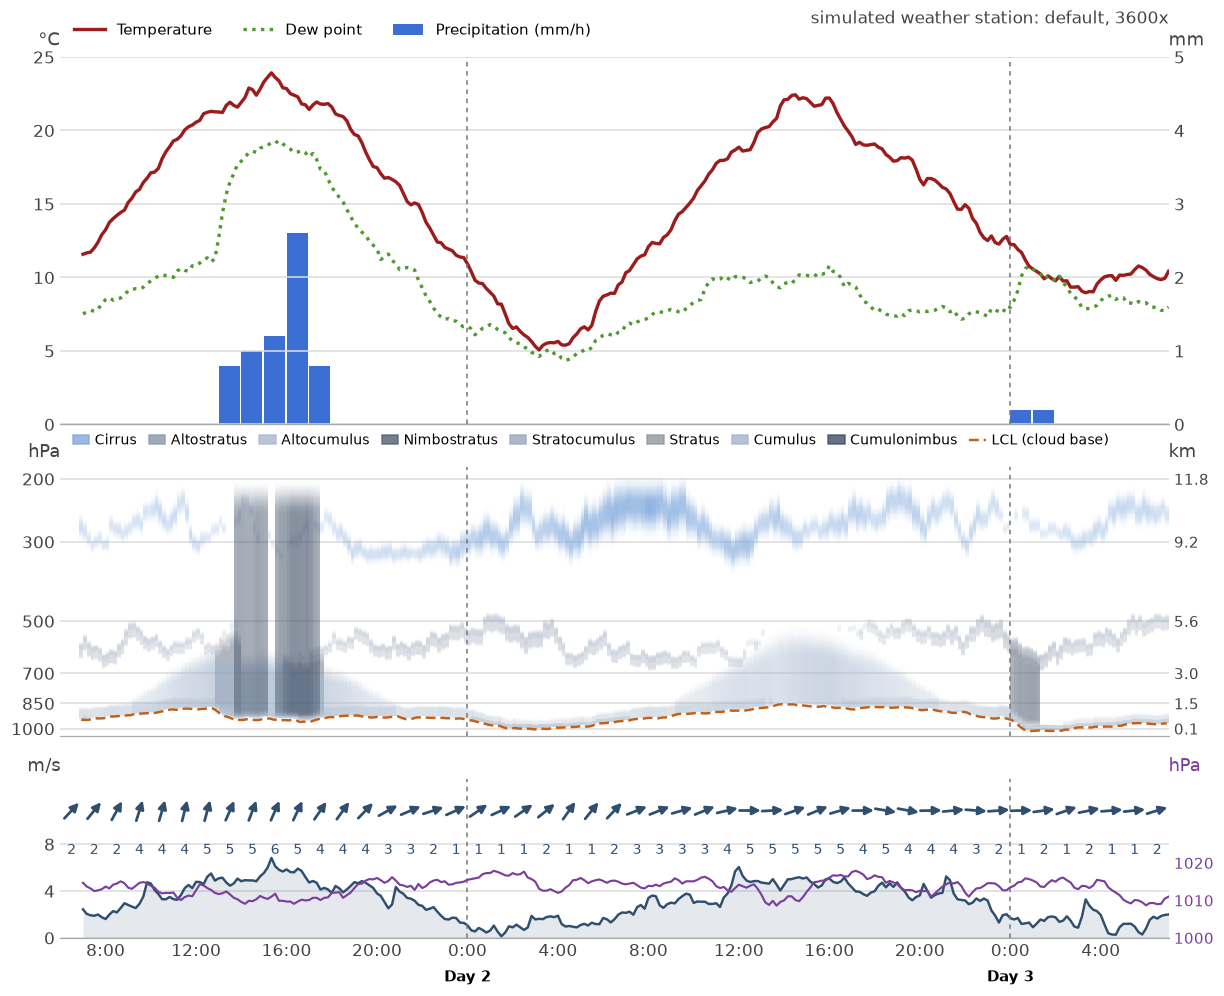
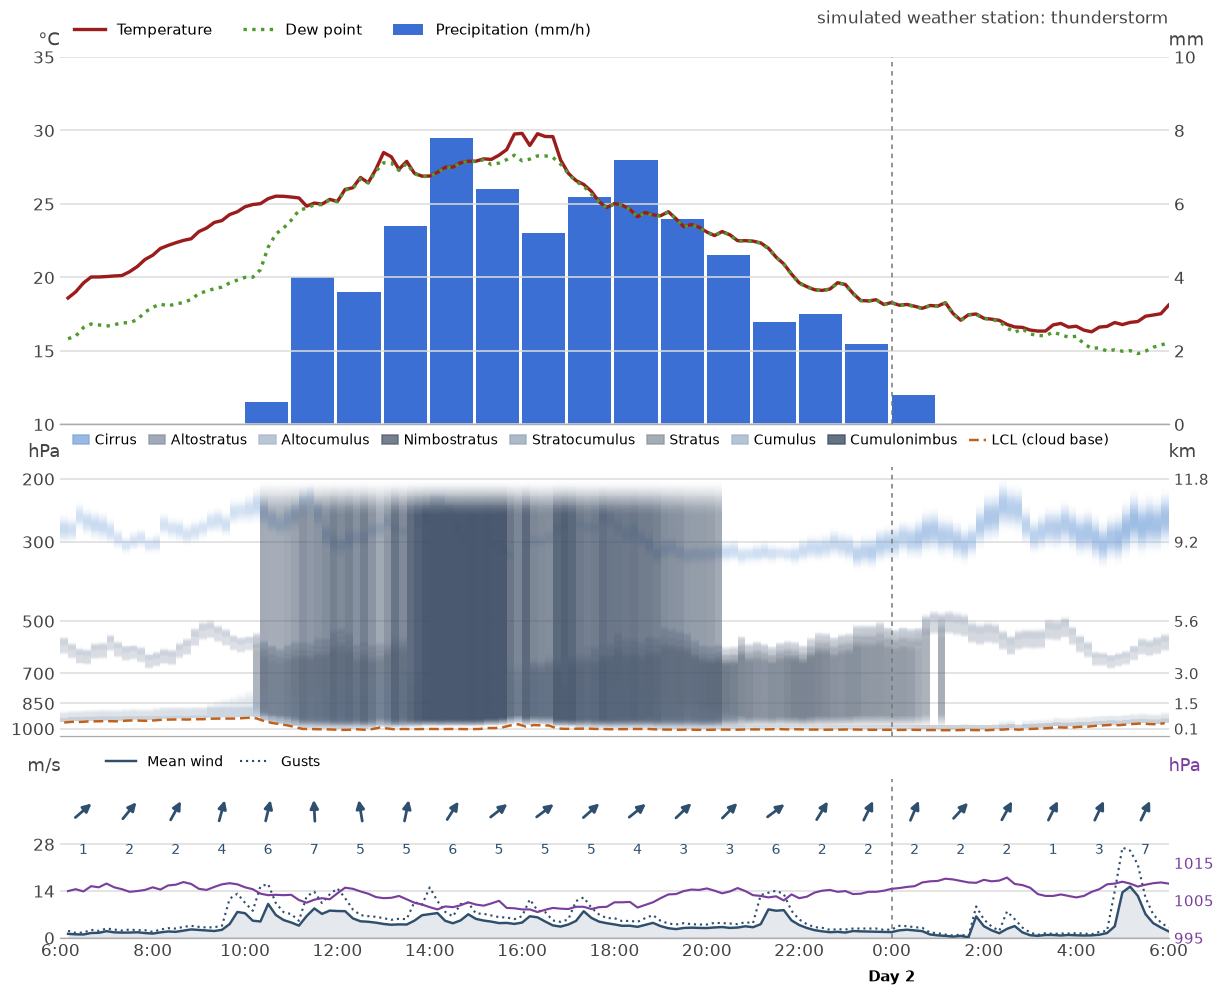
Record wind gusts and plot them as a dotted line
Firmware:
- The model produces a peak (3-second) wind: the wind of the moment
  times a per-minute gust factor of 1.10..1.40 (own RNG, so the rest of
  the weather is unchanged)
- Each 10-minute record keeps the highest peak the anemometer saw;
  records average ~1.45x their mean wind (typical over land), storms
  gust to ~40 m/s
- Gust in samples, records, the JSON ("wind_gust"), the console 'w'
  report and a new CSV column (appended); it fits the packed log
  entry's former padding, so entries stay 44 bytes

Plotting tool:
- Wind panel: the mean wind stays a solid line with its fill, the gusts
  are a dotted line in the same colour, with a small legend; the axis
  scales to the gusts

Tests and docs:
- weather.robot: every gust at or above its mean wind, with a realistic
  mean gust factor
- scenarios.robot: storm gusts of at least 30 m/s
- console.robot: the gusts text in the weather report
- README picture replaced with the thunderstorm-day chart; wind panel,
  gust row, CSV columns and JSON in README and CLAUDE.md updated

diff --git a/tools/weather_tool.py b/tools/weather_tool.py
@@ -47,7 +47,7 @@ COLUMNS = ["seq", "day", "time", "temperature", "humidity", "wind_speed", "wind_
            "lcl", "cirrus", "altostratus", "cumulus", "cumulus_top", "cumulonimbus",
            "cirrus_base", "cirrus_top", "altostratus_base", "altostratus_top",
            "stratus", "stratocumulus", "nimbostratus", "altocumulus", "stratus_top", "stratocumulus_top",
-           "nimbostratus_top", "altocumulus_base", "altocumulus_top", "pressure"]
+           "nimbostratus_top", "altocumulus_base", "altocumulus_top", "pressure", "wind_gust"]
 CLOUD_LAYER_COLUMNS = COLUMNS[COLUMNS.index("lcl"):COLUMNS.index("pressure")]
 SCENARIOS = ["default", "summer_heat", "winter_high", "storm", "thunderstorm"]
 SERVICE_PORT = 5000
@@ -160,6 +160,7 @@ def load(path):
                     "cloud_cover": float(row["cloud_cover"]) if row.get("cloud_cover") else None,
                     **{key: float(row[key]) if row.get(key) else None for key in CLOUD_LAYER_COLUMNS},
                     "pressure": float(row["pressure"]) if row.get("pressure") else None,
+                    "wind_gust": float(row["wind_gust"]) if row.get("wind_gust") else None,
                 }
             )
     readings.sort(key=lambda r: r["when"])
@@ -425,13 +426,23 @@ def draw(fig, readings, hours=24, title=None):
         draw_cloud_panel(ax_c, readings)
 
     # -- wind panel ----------------------------------------------------------
+    # Solid: the mean wind of each 10-minute record. Dotted: the gusts, the
+    # highest wind sampled in each interval (older CSVs have none).
     speeds = [r["wind_speed"] for r in readings]
-    w_high = max(4, math.ceil(max(speeds) / 2) * 2)
+    gusts = [r.get("wind_gust") for r in readings]
+    has_gusts = any(g is not None for g in gusts)
+    top_speed = max(speeds + [g for g in gusts if g is not None])
+    w_high = max(4, math.ceil(top_speed / 2) * 2)
     ax_w.set_ylim(0, w_high * 1.7)  # top part holds the arrows
     ax_w.set_yticks(range(0, w_high + 1, max(1, w_high // 2)))
     ax_w.grid(axis="y", color=GRID_COLOR, lw=1, zorder=1)
     ax_w.fill_between(times, speeds, color=WIND_COLOR, alpha=0.12, lw=0, zorder=2)
-    ax_w.plot(times, speeds, color=WIND_COLOR, lw=1.6, zorder=3, label="Wind speed")
+    ax_w.plot(times, speeds, color=WIND_COLOR, lw=1.6, zorder=3, label="Mean wind")
+    if has_gusts:
+        ax_w.plot([t for t, g in zip(times, gusts) if g is not None], [g for g in gusts if g is not None],
+                  color=WIND_COLOR, lw=1.4, ls=(0, (1, 1.8)), zorder=3, label="Gusts")
+        ax_w.legend(loc="lower left", bbox_to_anchor=(0.03, 0.98), ncol=2, frameon=False, fontsize=9,
+                    handlelength=2.2, columnspacing=1.2)
     ax_w.text(0, 1.02, "m/s", transform=ax_w.transAxes, ha="right", va="bottom", fontsize=12, color="#444444")
 
     # Surface pressure on the right-hand axis (high in an anticyclone, deep

diff --git a/src/app/weather_station.cpp b/src/app/weather_station.cpp
@@ -66,6 +66,7 @@ void weather_log::add(const weather_reading& r)
         .temperature = pack<int16_t>(r.temperature.value, -32768, 32767),
         .humidity = pack<uint16_t>(r.humidity.value, 0, 10000),
         .wind_speed = pack<uint16_t>(r.wind_speed.value, 0, 65535),
+        .wind_gust = pack<uint16_t>(r.wind_gust.value, 0, 65535),
         .wind_direction = pack<uint16_t>(r.wind_direction.value, 0, 359),
         .rain = pack<uint16_t>(r.rain.value, 0, 65535),
         .lcl = pack<uint16_t>(r.clouds.lcl.value, 0, 1100),
@@ -97,6 +98,7 @@ weather_reading weather_log::entry::reading() const
         .temperature = {temperature},
         .humidity = {humidity},
         .wind_speed = {wind_speed},
+        .wind_gust = {wind_gust},
         .wind_direction = {wind_direction},
         .rain = {rain},
         .rain_today = {0},
@@ -218,12 +220,19 @@ void weather_station::sample(uint32_t weight_seconds)
     _update_rain += tipped;
     _rain_today += tipped;
 
+    // Gust: the highest peak wind the anemometer has seen in the interval.
+    const int32_t wind_speed = _anemometer.measure(truth.wind_speed);
+    const int32_t peak = _anemometer.measure(truth.wind_gust);
+    if(peak > _interval_gust)
+        _interval_gust = peak;
+
     _latest = {
         .day = _model.day(),
         .time = {_model.second_of_day()},
         .temperature = {_thermometer.measure(truth.temperature)},
         .humidity = {_hygrometer.measure(truth.humidity)},
-        .wind_speed = {_anemometer.measure(truth.wind_speed)},
+        .wind_speed = {wind_speed},
+        .wind_gust = {_interval_gust},
         .wind_direction = {direction},
         .rain = {_update_rain},
         .rain_today = {_rain_today},
@@ -319,6 +328,7 @@ weather_reading weather_station::mean_of_interval() const
         .temperature = {mean(_sum_temperature)},
         .humidity = {mean(_sum_humidity)},
         .wind_speed = {mean(_sum_wind_speed)},
+        .wind_gust = {_interval_gust},
         .wind_direction = {util::wrap(mean(_sum_direction), 360)},
         .rain = {_interval_rain},
         .rain_today = {_rain_today},
@@ -358,6 +368,7 @@ void weather_station::close_record()
 void weather_station::reset_interval()
 {
     _sum_temperature = _sum_humidity = _sum_wind_speed = _sum_direction = 0;
+    _interval_gust = 0;
     _sum_cloud_cover = _sum_cirrus = _sum_altostratus = _sum_cumulus = 0;
     _sum_pressure = 0;
     _sum_cumulonimbus = _sum_lcl = _sum_cumulus_top = 0;

diff --git a/src/app/weather_station.hpp b/src/app/weather_station.hpp
@@ -50,7 +50,8 @@ struct weather_reading
     clock_time time;
     centi_celsius temperature;
     centi_percent humidity;
-    centi_mps wind_speed;
+    centi_mps wind_speed; // samples: the moment; records: the mean
+    centi_mps wind_gust;  // highest peak (gust) wind seen in the interval
     compass_degrees wind_direction;
     centi_mm rain;       // samples: since the previous update; records: in
                          // the 10-minute interval
@@ -100,7 +101,7 @@ public:
     static constexpr size_t CAPACITY = 256;
 
     // One record, packed into small integers to fit the RAM budget (44
-    // bytes instead of a full weather_reading's 120). rain_today and the
+    // bytes instead of a full weather_reading's 124). rain_today and the
     // derived cloud levels aren't kept.
     struct entry
     {
@@ -109,7 +110,8 @@ public:
         uint16_t minute_of_day;
         int16_t temperature;       // 0.01 degC
         uint16_t humidity;         // 0.01 %RH
-        uint16_t wind_speed;       // 0.01 m/s
+        uint16_t wind_speed;       // 0.01 m/s, mean
+        uint16_t wind_gust;        // 0.01 m/s, highest in the interval
         uint16_t wind_direction;   // degrees
         uint16_t rain;             // 0.01 mm in the interval
         uint16_t lcl;              // hPa
@@ -256,6 +258,7 @@ private:
     int64_t _sum_temperature = 0;
     int64_t _sum_humidity = 0;
     int64_t _sum_wind_speed = 0;
+    int32_t _interval_gust = 0; // highest peak wind this interval, 0.01 m/s
     int64_t _sum_cloud_cover = 0;
     int64_t _sum_pressure = 0;
     int64_t _sum_cirrus = 0;

diff --git a/src/app/weather_service.cpp b/src/app/weather_service.cpp
@@ -76,6 +76,7 @@ void write_json(util::text_stream& out, const weather_reading& r)
         << ",\"temperature\":" << util::fixed(r.temperature.value, 2)
         << ",\"humidity\":" << util::fixed(r.humidity.value, 2)
         << ",\"wind_speed\":" << util::fixed(r.wind_speed.value, 2)
+        << ",\"wind_gust\":" << util::fixed(r.wind_gust.value, 2)
         << ",\"wind_direction\":" << r.wind_direction.value
         << ",\"wind_compass\":\"" << compass_point(r.wind_direction.value)
         << "\",\"rain\":" << util::fixed(r.rain.value, 2)
@@ -109,7 +110,7 @@ void write_json(util::text_stream& out, const weather_reading& r)
 // cirrus_base,cirrus_top,altostratus_base,altostratus_top,
 // stratus,stratocumulus,nimbostratus,altocumulus,stratus_top,
 // stratocumulus_top,nimbostratus_top,altocumulus_base,altocumulus_top,
-// pressure
+// pressure,wind_gust
 void write_csv_row(util::text_stream& out, const weather_log::entry& e)
 {
     const weather_reading r = e.reading();
@@ -130,7 +131,7 @@ void write_csv_row(util::text_stream& out, const weather_log::entry& e)
         << c.stratus_top.value << ',' << c.stratocumulus_top.value << ','
         << c.nimbostratus_top.value << ',' << c.altocumulus_base.value << ','
         << c.altocumulus_top.value << ',' << util::fixed(r.pressure.value, 1)
-        << '\n';
+        << ',' << util::fixed(r.wind_gust.value, 2) << '\n';
 }
 
 // A page of the log, starting at sequence number `from`:

diff --git a/tests/libraries/network_peer.py b/tests/libraries/network_peer.py
@@ -219,7 +219,7 @@ class NetworkPeer:
                    "cirrus_base", "cirrus_top", "altostratus_base", "altostratus_top",
                    "stratus", "stratocumulus", "nimbostratus", "altocumulus", "stratus_top",
                    "stratocumulus_top", "nimbostratus_top", "altocumulus_base", "altocumulus_top",
-                   "pressure"]
+                   "pressure", "wind_gust"]
         readings, next_sequence = [], int(start)
         while True:
             header, *rows = self.send_udp_command(f"log {next_sequence}").split("\n")
@@ -229,10 +229,10 @@ class NetworkPeer:
             for row in rows[: int(fields["count"])]:
                 values = dict(zip(columns, row.split(",")))
                 for key in columns:
-                    if key in ("time", "temperature", "humidity", "wind_speed", "rain", "pressure"):
+                    if key in ("time", "temperature", "humidity", "wind_speed", "rain", "pressure", "wind_gust"):
                         continue
                     values[key] = int(values[key])
-                for key in ("temperature", "humidity", "wind_speed", "rain", "pressure"):
+                for key in ("temperature", "humidity", "wind_speed", "rain", "pressure", "wind_gust"):
                     values[key] = float(values[key])
                 readings.append(values)
             next_sequence = int(fields["next"])

diff --git a/src/app/weather_model.cpp b/src/app/weather_model.cpp
@@ -282,6 +282,12 @@ void weather_model::step(uint32_t dt)
         8700 * FINE,
         10850 * FINE);
 
+    // Gust factor for the coming minute: peaks 10..40 % above the wind of
+    // the moment. A 10-minute record keeps the highest of ten such peaks,
+    // which comes out around 1.4..1.6 times the record's mean wind, as
+    // measured over land.
+    _gust_factor = _gust_rng.between(1100, 1400);
+
     // Convective cells: mean-reverting over ~40 minutes, so they come and go.
     _cell = util::clamp(
         revert(_cell, 450 * FINE, dt, 40 * 60, _cell_rng.gaussian(67 * FINE)),
@@ -393,6 +399,10 @@ void weather_model::update_conditions()
         .temperature = temperature,
         .humidity = relative_humidity,
         .wind_speed = util::clamp((_sustained_wind + _gust) / FINE, 0, 4000),
+        .wind_gust = util::clamp(
+            (_sustained_wind + _gust) / FINE * _gust_factor / 1000,
+            0,
+            6000),
         .wind_direction =
             util::wrap(_prevailing / FINE / 10 + _vane_swing, 360),
         .rain_rate = rain_rate,

diff --git a/src/app/weather_model.hpp b/src/app/weather_model.hpp
@@ -14,6 +14,7 @@ struct weather_conditions
     int32_t temperature;    // 0.01 degC
     int32_t humidity;       // 0.01 %RH
     int32_t wind_speed;     // 0.01 m/s
+    int32_t wind_gust;      // 0.01 m/s, the peak (3-second) wind right now
     int32_t wind_direction; // degrees, 0..359 (where the wind comes from)
     int32_t rain_rate;      // 0.01 mm/h
     int32_t pressure;       // surface pressure, 0.1 hPa
@@ -190,6 +191,10 @@ private:
     // thunderstorms come in bursts. Own generator again.
     util::xorshift32 _cell_rng{0xce'115eedu};
     int32_t _cell = 450 * FINE;
+    // Gust factor: peak (3-second) wind over the wind of the moment,
+    // 1100..1400 per mille, varying minute by minute. Own generator.
+    util::xorshift32 _gust_rng{0x6057'f00du};
+    int32_t _gust_factor = 1250;
     int64_t _rain_fallen = 0; // since take_rain(), in 0.01 mm * 1 s / 1 h
 
     weather_conditions _conditions{};

diff --git a/src/app/tasks.cpp b/src/app/tasks.cpp
@@ -96,7 +96,7 @@ void console_task::print_weather()
          << "humidity:       " << r.humidity << " (10-min mean "
          << mean.humidity << ")\n"
          << "wind speed:     " << r.wind_speed << " (10-min mean "
-         << mean.wind_speed << ")\n"
+         << mean.wind_speed << ", gusts " << mean.wind_gust << ")\n"
          << "wind direction: " << r.wind_direction << " (10-min mean "
          << mean.wind_direction << ")\n"
          << "rain:           " << mean.rain << " in this interval (today "

diff --git a/tests/libraries/scenario_summary.py b/tests/libraries/scenario_summary.py
@@ -28,6 +28,7 @@ def summarise(log):
         "humidity_min": min(values("humidity")),
         "wind_mean": sum(wind) / len(wind),
         "wind_max": max(wind),
+        "gust_max": max(values("wind_gust")),
         "rain": round(sum(values("rain")), 2),
         "rain_max_hour": round(max(hourly.values()), 2),
         "pressure_min": min(values("pressure")),

diff --git a/CLAUDE.md b/CLAUDE.md
@@ -111,8 +111,8 @@ GCC details:
     - cirrus is separate (centred on a drifting level near 270 hPa, thicker with more cloud), with its own amount process and RNG; the two drifting levels, the surface pressure (`_pressure`) and the convective cells (`_cell`, which pulse the scenario's `convective_cloud` over ~40 min) each have their own RNG, so adding them never changed the main weather sequence
     - the stratus, stratocumulus and nimbostratus tops and the altocumulus base/top are *derived* (`weather_model::stratus_top()` etc., applied by `derive_cloud_levels()`) from the LCL, the amounts and the altostratus levels. The log stores only the amounts, which keeps the packed entry at 40 bytes
     - the LCL comes from humidity via `util::standard_pressure_hpa()` `take_rain()` hands over the rain fallen since the last call. The RNG seed was picked for varied first days (the demos and README chart use them).
-  - `weather_station` owns the speed (simulated s per real s, 1..72000; default 1 = real time; set at boot from the `opt/weather/speed` fw_cfg file in `main.cpp`). `update()` turns elapsed real time × speed into simulated time and simulates it in chunks of at most 60 s that never cross a 10-minute boundary. Each chunk ends with a sample through the per-sensor `sensor_model`s (noise, resolution, range; `_sky_imager` total cover, `_cloud_sensor` layer amounts, `_ceilometer` LCL and cumulus top) and the tipping-bucket rain gauge (0.2 mm tips; the remainder stays in the bucket). Samples are time-weighted into the interval; at each boundary `close_record()` appends the means (wind direction unwrapped across north) and the interval's rain to `weather_log`, a 256-entry ring (42.7 simulated hours) with consecutive sequence numbers. Record times are interval ends; the 00:00 record still counts toward the old day's `rain_today`. `fast_forward()` uses the same path instantly. At 72000× one update is 1200 steps and 120 records, so the 256-record log wraps in ~2 real seconds; importers must poll at least that often (the tool warns on sequence gaps).
-  - `weather_service` is the UDP text protocol on port 5000 (`weather` = latest sample as JSON, `time HH:MM`, `log [seq]`, `advance <minutes>`, `speed [N]`, `scenario [name]`, `scenarios`, `ping`, `help`). `log` replies are pages of at most 9 CSV rows (rows are < 150 bytes, so a page fits one frame), with a `log next=N count=C` header; the client repeats until `count=0`. That paging format and the CSV columns (`seq,day,time,temperature,humidity,wind_speed,wind_direction,rain,cloud_cover,lcl,cirrus,altostratus,cumulus,cumulus_top,cumulonimbus,cirrus_base,cirrus_top,altostratus_base,altostratus_top,stratus,stratocumulus,nimbostratus,altocumulus,stratus_top,stratocumulus_top,nimbostratus_top,altocumulus_base,altocumulus_top,pressure`; add new ones at the end, so old CSVs still load) are shared by `weather_service.cpp`, `tools/weather_tool.py` and `network_peer.Fetch Weather Log`, so change all three together.
+  - `weather_station` owns the speed (simulated s per real s, 1..72000; default 1 = real time; set at boot from the `opt/weather/speed` fw_cfg file in `main.cpp`). `update()` turns elapsed real time × speed into simulated time and simulates it in chunks of at most 60 s that never cross a 10-minute boundary. Each chunk ends with a sample through the per-sensor `sensor_model`s (noise, resolution, range; `_sky_imager` total cover, `_cloud_sensor` layer amounts, `_ceilometer` LCL and cumulus top) and the tipping-bucket rain gauge (0.2 mm tips; the remainder stays in the bucket). Samples are time-weighted into the interval, and the interval's gust is the highest peak wind (`weather_conditions::wind_gust`: the wind of the moment times a per-minute gust factor of 1.10–1.40, with its own RNG) the anemometer saw; at each boundary `close_record()` appends the means (wind direction unwrapped across north) and the interval's rain to `weather_log`, a 256-entry ring (42.7 simulated hours) with consecutive sequence numbers. Record times are interval ends; the 00:00 record still counts toward the old day's `rain_today`. `fast_forward()` uses the same path instantly. At 72000× one update is 1200 steps and 120 records, so the 256-record log wraps in ~2 real seconds; importers must poll at least that often (the tool warns on sequence gaps).
+  - `weather_service` is the UDP text protocol on port 5000 (`weather` = latest sample as JSON, `time HH:MM`, `log [seq]`, `advance <minutes>`, `speed [N]`, `scenario [name]`, `scenarios`, `ping`, `help`). `log` replies are pages of at most 9 CSV rows (rows are < 150 bytes, so a page fits one frame), with a `log next=N count=C` header; the client repeats until `count=0`. That paging format and the CSV columns (`seq,day,time,temperature,humidity,wind_speed,wind_direction,rain,cloud_cover,lcl,cirrus,altostratus,cumulus,cumulus_top,cumulonimbus,cirrus_base,cirrus_top,altostratus_base,altostratus_top,stratus,stratocumulus,nimbostratus,altocumulus,stratus_top,stratocumulus_top,nimbostratus_top,altocumulus_base,altocumulus_top,pressure,wind_gust`; add new ones at the end, so old CSVs still load) are shared by `weather_service.cpp`, `tools/weather_tool.py` and `network_peer.Fetch Weather Log`, so change all three together.
   - `units.hpp` holds the fixed-point unit types and their formatting.
 - `util::` holds header-only, mostly `constexpr` building blocks (`ring_buffer`, `moving_average`, `span`, `xorshift32`, `fixed_math`). Add `static_assert` tests to `src/util/static_tests.cpp` when changing them. `util::text_stream` is the type-safe `operator<<` formatter (`dec`, `hex`, `fixed`). Its subclass `app::console` writes to the UART and `util::buffer_stream` writes into a buffer (used for UDP replies). Domain types add `operator<<(util::text_stream&, T)`.
 

diff --git a/README.md b/README.md
@@ -12,7 +12,7 @@ UART, logged, and served over **Ethernet**, through a virtio-net driver and a mi
 IPv4 stack (ARP, ping, UDP). A Python tool imports the log and plots it in the style of
 the Finnish Meteorological Institute's forecast chart:
 
-![Two simulated days](docs/weather_chart.png)
+![A simulated thunderstorm day (scenario thunderstorm)](docs/weather_chart.png)
 
 **Just the commands** for setup, running and testing: [howto.txt](howto.txt).
 
@@ -170,6 +170,7 @@ a right-hand hPa axis.
 | Temperature | daily sine cycle, 15 °C ± 8 °C (coldest ~03:00, warmest ~15:00), plus a slowly drifting "weather front" offset of up to ±3 °C |
 | Humidity | falls about 3 %RH per °C of warming (relative humidity drops as air warms), plus its own slow moisture drift |
 | Wind speed | pulled toward a daily mean (1–5 m/s, windiest in the afternoon) with random variation, plus occasional gusts that decay |
+| Wind gusts | the peak (3-second) wind is 10–40 % above the wind of the moment, varying minute by minute. Each 10-minute record keeps the highest peak, which comes out around 1.45× its mean wind, a typical gust factor over land |
 | Wind direction | a prevailing direction (starting SW) that drifts slowly; the vane swings ~30° in calm air but only a few degrees in strong wind |
 | Cloud cover | low and middle cloud follows a slowly wandering trend; showers build and clear over hours. The sky imager reports total cover in whole percent, counting thin cirrus half |
 | Cloud layers | the cloudiness is split into ten types, each at its own level. Splitting it leaves the total, and so the rain, unchanged |
@@ -196,7 +197,7 @@ listens on port 5000; each datagram is one command:
 
 | Command | Reply |
 |---------|-------|
-| `weather` | the latest sample: `{"day":1,"time":"06:10:05","temperature":12.34,"humidity":71.20,"wind_speed":3.42,"wind_direction":225,"wind_compass":"SW","rain":0.40,"rain_today":1.20,"cloud_cover":63,"lcl":912,"cirrus":25,"altostratus":20,"cumulus":30,"cumulus_top":650,"cumulonimbus":0,"cirrus_base":300,"cirrus_top":240,"altostratus_base":640,"altostratus_top":520,"stratus":5,"stratocumulus":12,"nimbostratus":0,"altocumulus":4,"stratus_top":880,"stratocumulus_top":830,"nimbostratus_top":520,"altocumulus_base":593,"altocumulus_top":552,"pressure":1013.2,"speed":1,"scenario":"default"}` |
+| `weather` | the latest sample: `{"day":1,"time":"06:10:05","temperature":12.34,"humidity":71.20,"wind_speed":3.42,"wind_gust":4.90,"wind_direction":225,"wind_compass":"SW","rain":0.40,"rain_today":1.20,"cloud_cover":63,"lcl":912,"cirrus":25,"altostratus":20,"cumulus":30,"cumulus_top":650,"cumulonimbus":0,"cirrus_base":300,"cirrus_top":240,"altostratus_base":640,"altostratus_top":520,"stratus":5,"stratocumulus":12,"nimbostratus":0,"altocumulus":4,"stratus_top":880,"stratocumulus_top":830,"nimbostratus_top":520,"altocumulus_base":593,"altocumulus_top":552,"pressure":1013.2,"speed":1,"scenario":"default"}` |
 | `time HH:MM` | `ok time HH:MM`: jumps the simulated clock |
 | `log [sequence]` | one page (up to 9 rows) of 10-minute records as CSV, from `sequence`; the header line `log next=N count=C` says where to continue |
 | `advance MINUTES` | fast-forwards the simulation instantly (10…4320 minutes), logging the records |
@@ -232,8 +233,10 @@ matplotlib, in the style of the [FMI forecast chart](https://www.ilmatieteenlait
   - cumulonimbus is a dark tower from the cloud base to the tropopause
 
   The LCL (cloud base) is a dashed line.
-- **Bottom panel:** wind speed, with hourly arrows that point where the wind blows to and
-  the hourly mean speed under each arrow.
+- **Bottom panel:** wind. The solid line (with a light fill) is each 10-minute record's mean
+  wind. The dotted line is its gust, the highest peak wind in the interval, so the two
+  don't mix. Hourly arrows point where the wind blows to, with the hourly mean speed under
+  each arrow. Surface pressure runs on the right-hand hPa axis.
 - **Time axis:** a dashed line at each midnight.
 
 With the [virtual environment](#python-virtual-environment) set up and active:
@@ -256,7 +259,7 @@ python tools/weather_tool.py demo --firmware build/firmware.elf --minutes 2880 -
 ```
 
 The CSV columns are
-`seq,day,time,temperature,humidity,wind_speed,wind_direction,rain,cloud_cover,lcl,cirrus,altostratus,cumulus,cumulus_top,cumulonimbus,cirrus_base,cirrus_top,altostratus_base,altostratus_top,stratus,stratocumulus,nimbostratus,altocumulus,stratus_top,stratocumulus_top,nimbostratus_top,altocumulus_base,altocumulus_top,pressure`
+`seq,day,time,temperature,humidity,wind_speed,wind_direction,rain,cloud_cover,lcl,cirrus,altostratus,cumulus,cumulus_top,cumulonimbus,cirrus_base,cirrus_top,altostratus_base,altostratus_top,stratus,stratocumulus,nimbostratus,altocumulus,stratus_top,stratocumulus_top,nimbostratus_top,altocumulus_base,altocumulus_top,pressure,wind_gust`
 (cloud levels in hPa, cloud amounts in %, surface pressure in hPa with one decimal). Older CSVs without the newer columns at the end
 still plot: without layer levels the cirrus and altostratus fall back to fixed levels, and
 without any cloud columns there's no cloud panel.
